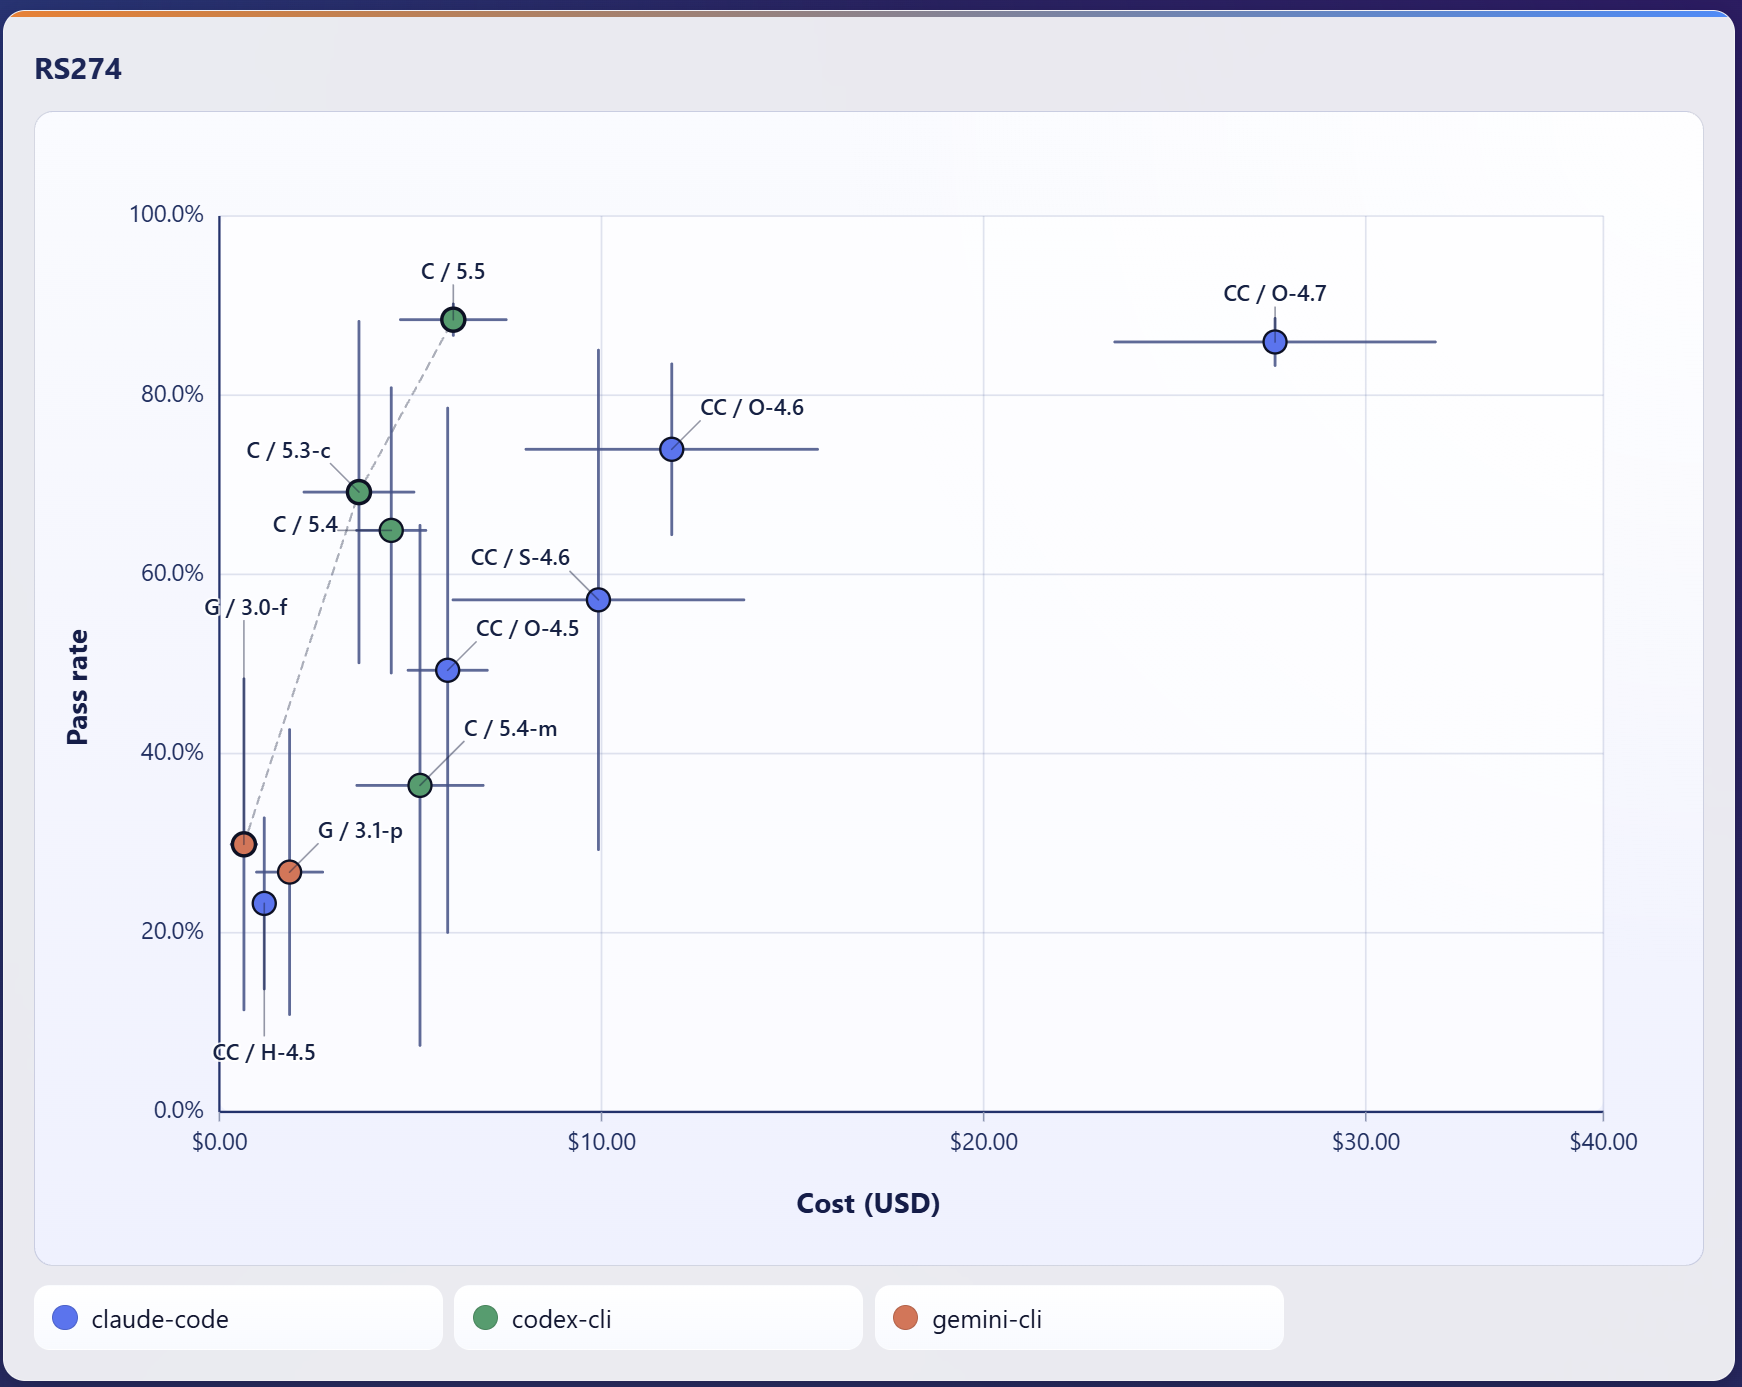
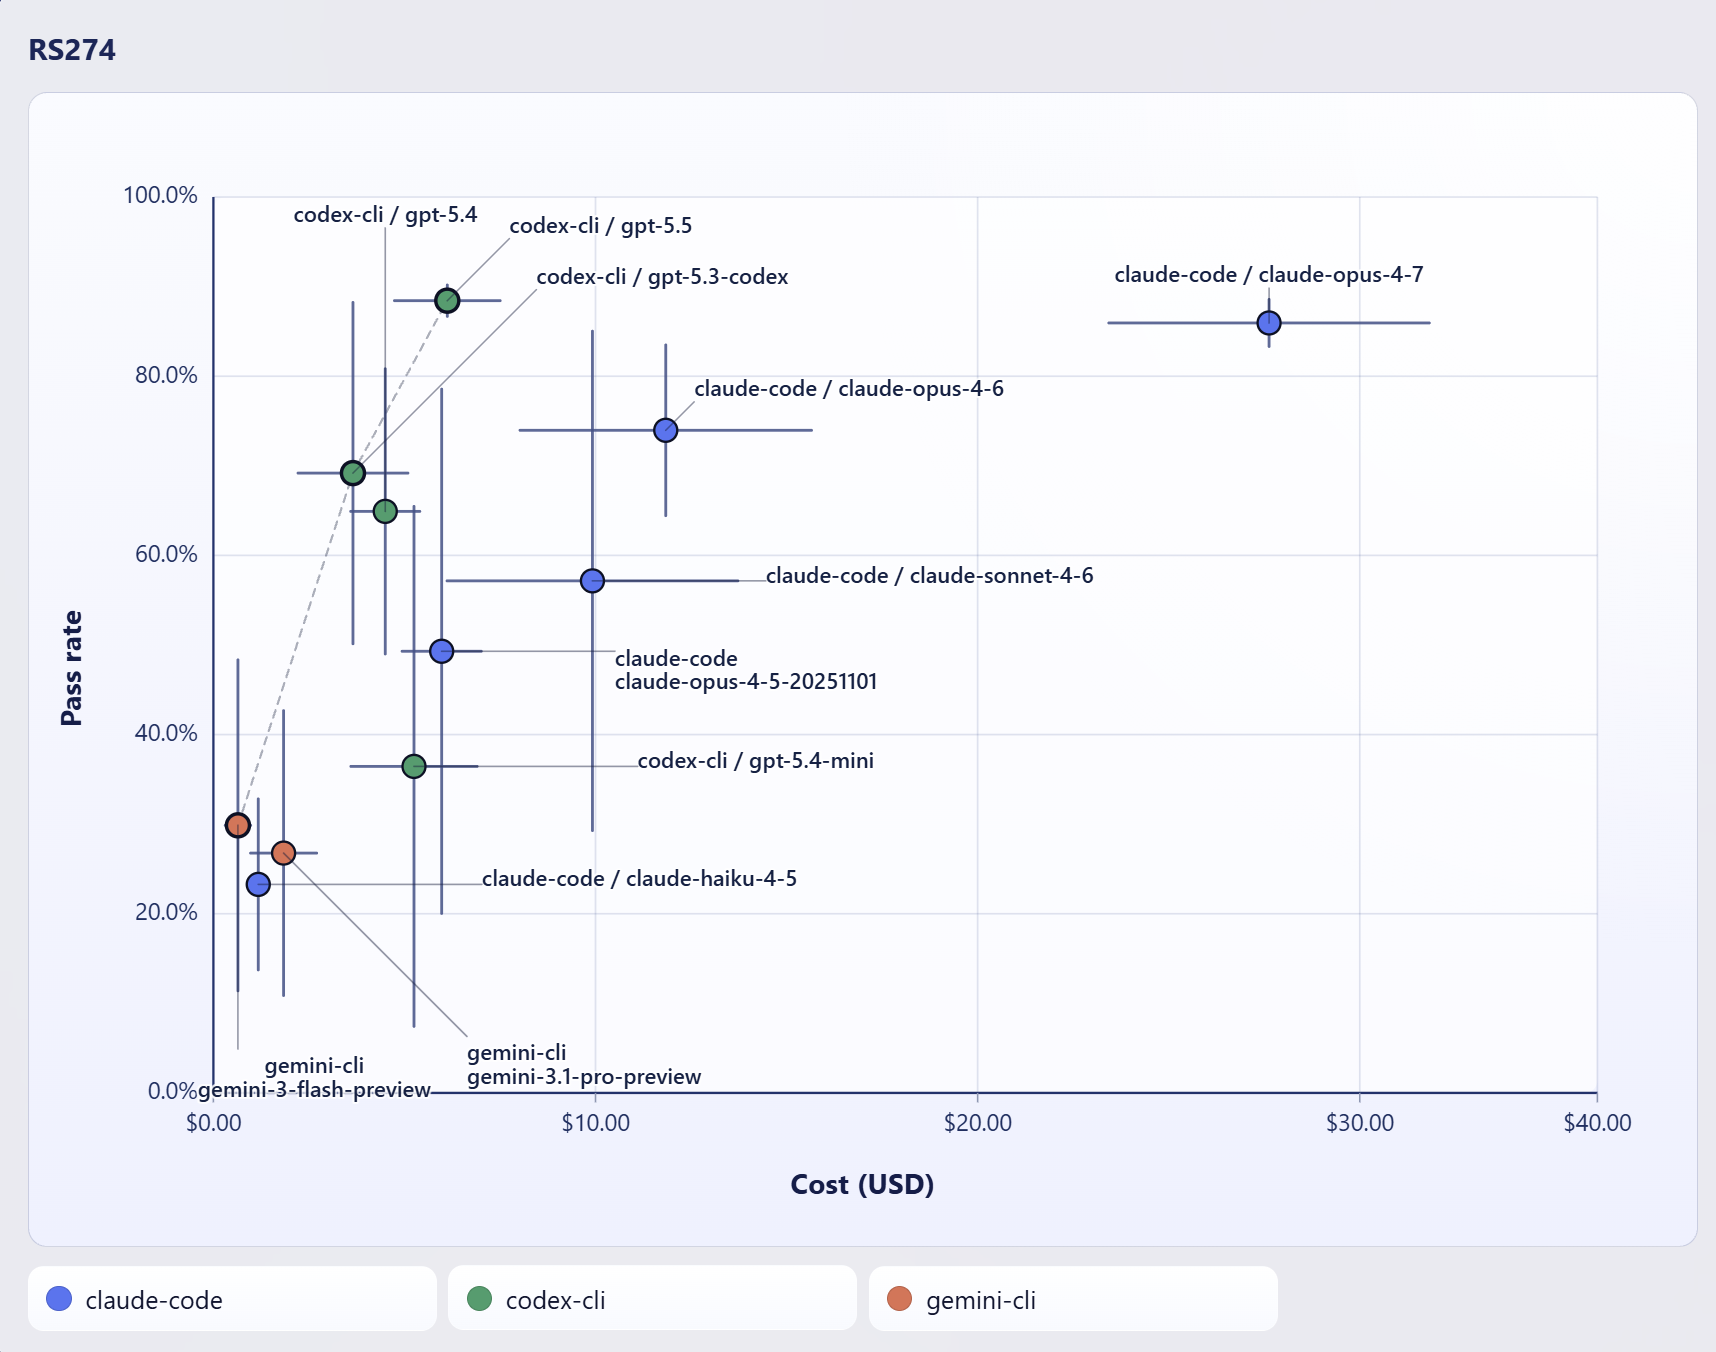
Update README image results to include full agent / model names rather than abbreviations. Add link to external results dashboard.

diff --git a/README.md b/README.md
@@ -1,9 +1,5 @@
 # CLISpecBench
 
-<p align="center">
-  <img src="published_results/assets/clispecbench-logo.png" alt="CLISpecBench logo" width="160">
-</p>
-
 [![CI](https://github.com/mknutso-2/CLISpecBench/actions/workflows/ci.yml/badge.svg)](https://github.com/mknutso-2/CLISpecBench/actions/workflows/ci.yml)
 [![License](https://img.shields.io/badge/license-Apache--2.0-blue.svg)](LICENSE)
 
@@ -15,7 +11,7 @@ What makes CLISpecBench unique:
 - **Repeated-Run Scoring**: Results are generated multiple times at each model's highest supported reasoning effort (3x per language across all 4 languages, for a total of 12 runs per agent-model/eval pair) to capture variability and consistency.
 - **CLI Subscription Authentication**: The harness supports subscription-based CLI authentication so that results can be generated with the user's subscriptions to Gemini, Claude, and ChatGPT, saving on evaluation costs.
 
-Below are CLISpecBench results for the flagship RS274 eval. See [Viewing Published Results](#viewing-published-results) for instructions on how to view the full results dashboard locally.
+Below are CLISpecBench results for the flagship RS274 eval. Full results are available in the [interactive results dashboard](https://mknutso-2.github.io/CLISpecBench/web/results-dashboard.html), which lets you slice results by eval, language, agent/model pair, metric, and more.
 
 ![RS274 Results Graph](assets/rs274-results-graph.png)
 ![RS274 Results Table](assets/rs274-results-table.png)
